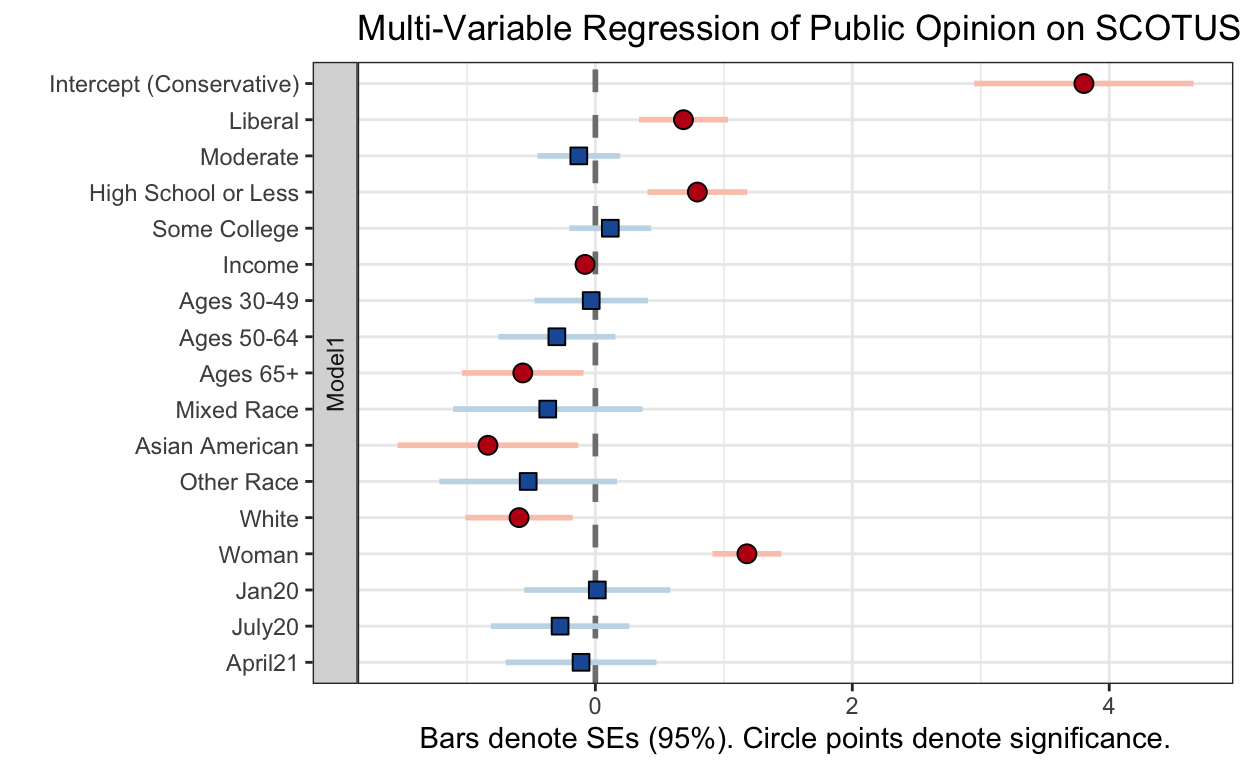
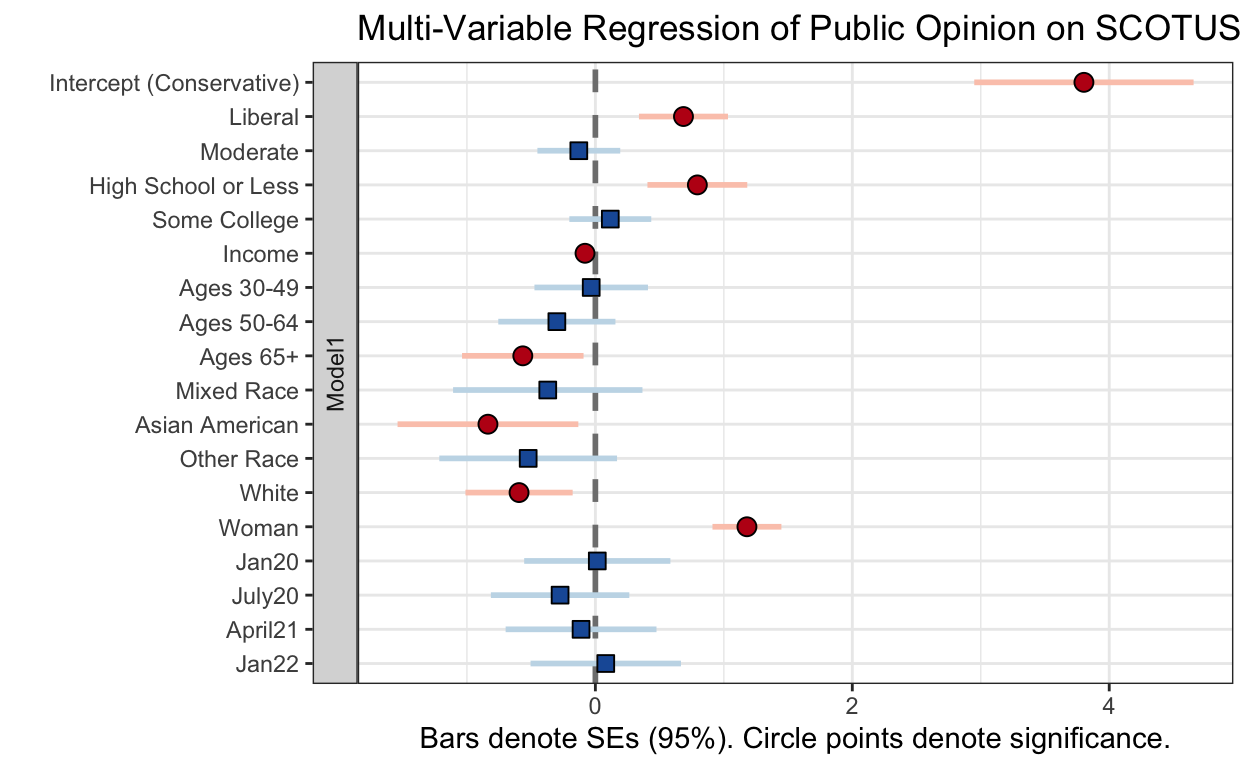
final project

Changed region(s): [[0.2812, 0.125, 0.9688, 0.875], [0.0625, 0.0938, 0.25, 0.875], [0.7812, 0.0938, 0.9688, 0.125]]

diff --git a/index.html b/index.html
@@ -2052,7 +2052,7 @@ R2 Adj.
 <span>             <span class='st'>"fct_month_yearJan20"</span> <span class='op'>=</span> <span class='st'>"Jan20"</span>, </span>
 <span>             <span class='st'>"fct_month_yearJuly20"</span> <span class='op'>=</span> <span class='st'>"July20"</span>,</span>
 <span>             <span class='st'>"fct_month_yearApril21"</span> <span class='op'>=</span> <span class='st'>"April21"</span>, </span>
-<span>             <span class='st'>"factor_month_yearJan22"</span> <span class='op'>=</span> <span class='st'>"Jan22"</span><span class='op'>)</span></span>
+<span>             <span class='st'>"fct_month_yearJan22"</span> <span class='op'>=</span> <span class='st'>"Jan22"</span><span class='op'>)</span></span>
 <span></span>
 <span><span class='fu'>modelsummary</span><span class='fu'>::</span><span class='fu'><a href='https://rdrr.io/pkg/modelsummary/man/modelsummary.html'>modelsummary</a></span><span class='op'>(</span><span class='va'>fit2</span>,</span>
 <span>                           statistic <span class='op'>=</span> <span class='fu'><a href='https://rdrr.io/r/base/c.html'>c</a></span><span class='op'>(</span><span class='st'>"s.e. = {std.error}"</span>,</span>
@@ -2443,10 +2443,32 @@ s.e. = 0.294
 </td>
 </tr>
 <tr>
+<td style="text-align:left;">
+</td>
+<td style="text-align:center;">
+p = 0.704
+</td>
+</tr>
+<tr>
+<td style="text-align:left;">
+Jan22
+</td>
+<td style="text-align:center;">
+0.081
+</td>
+</tr>
+<tr>
+<td style="text-align:left;">
+</td>
+<td style="text-align:center;">
+s.e. = 0.293
+</td>
+</tr>
+<tr>
 <td style="text-align:left;box-shadow: 0px 1.5px">
 </td>
 <td style="text-align:center;box-shadow: 0px 1.5px">
-p = 0.704
+p = 0.783
 </td>
 </tr>
 <tr>
